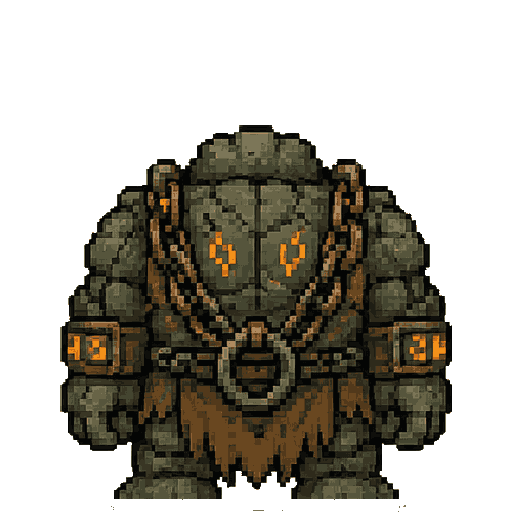
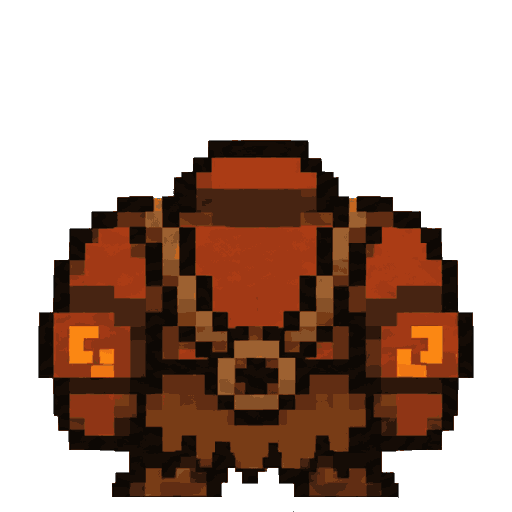
Give the Quarrymaster his own sprites, and a rock that throws a switch
ART. Replaces the stone goblin placeholder with the chained rock taskmaster:
three facings plus an arms-raised summon pose, right profile mirrored for left.
scripts/prep-quarrymaster-sprites.js slices the labelled contact sheet, keys the
paper, drops the baked shadow, de-halos the smoothed edges and plants every pose
on a common baseline at one shared scale. Palette-quantised to 64 colours, which
took each pose from ~300KB to ~20KB.

Sized against the hero rather than by eye. Sprites draw `contain`, so what matters
is canvas FILL: the hero's art fills 93% of its canvas at scale 1.0, while the
Quarrymaster's standing pose fills only 73% (his sheet is scaled to fit the summon
pose's arm span, leaving vertical headroom elsewhere). Hence 1.28, not 1.0 — at 1.0
he rendered shorter than the goblins he summons.

Also sets image-rendering: pixelated on him. He is authored at 512px and drawn at
~73px, and the browser's default smooth filter averaged the blocks into mush —
three art passes at increasing block size all arrived looking identical because the
downscale was throwing the difference away. The terrain already did this, so the
scene was half-filtered.

BEHAVIOUR. He throws his arms up on the turn he calls a wave, and stands still
while doing it — he used to pace on the same turn, and since the pose is only up
for one turn that step was most of what the eye caught, so it read as a glitch
rather than an action. His pods close when he dies, since he is what held them open.
[…]

diff --git a/__tests__/lib/quarrymaster.test.ts b/__tests__/lib/quarrymaster.test.ts
@@ -1,10 +1,11 @@
 import { Enemy, updateEnemies } from "../../lib/enemy";
 import { TileSubtype, Direction } from "../../lib/map";
-import { movePlayer } from "../../lib/map/game-state";
+import { movePlayer, performThrowRock } from "../../lib/map/game-state";
 import type { GameState } from "../../lib/map/game-state";
 import {
   isStandable,
   podExit,
+  quarrymasterIsSummoning,
   quarrymasterPodSpawnNonce,
   quarrymasterUpdate,
   QUARRYMASTER_WAVE_EVERY,
@@ -704,5 +705,131 @@ describe("his death", () => {
       .flat()
       .filter((c) => c.includes(TileSubtype.SPAWN_POD)).length;
     expect(podsAfter).toBe(0);
+  });
+});
+
+describe("the summoning tell", () => {
+  test("he stands still on the turn he calls a wave", () => {
+    // The pose is only up for one turn, so a simultaneous step is most of what the eye
+    // catches — it read as a rendering glitch rather than an action.
+    const { grid, subs } = openRoom(15);
+    const mem: Record<string, unknown> = { pods: [[2, 2], [2, 12]], nextWaveAt: 1 };
+    const ctx = bossCtx({
+      grid,
+      subs,
+      boss: { y: 6, x: 7 },
+      hero: { y: 12, x: 7 },
+      mem,
+      onSpawn: () => true,
+    });
+    // Give him room to pace, so standing still is a real choice and not a blocked move.
+    Object.assign(mem, { roamMinY: 5, roamMaxY: 7, roamMinX: 6, roamMaxX: 8 });
+
+    quarrymasterUpdate(ctx);
+
+    expect(quarrymasterIsSummoning(mem)).toBe(true);
+    expect([ctx.enemy.y, ctx.enemy.x]).toEqual([6, 7]);
+  });
+
+  test("he does pace on a turn he is not calling", () => {
+    const { grid, subs } = openRoom(15);
+    const mem: Record<string, unknown> = {
+      pods: [[2, 2]],
+      nextWaveAt: 9999, // never summons
+      roamMinY: 5,
+      roamMaxY: 7,
+      roamMinX: 6,
+      roamMaxX: 8,
+    };
+    const ctx = bossCtx({
+      grid,
+      subs,
+      boss: { y: 6, x: 7 },
+      hero: { y: 12, x: 7 },
+      mem,
+      onSpawn: () => true,
+    });
+
+    // rng is fixed at 0.5 in bossCtx, so the shuffle is deterministic and he does move.
+    quarrymasterUpdate(ctx);
+
+    expect(quarrymasterIsSummoning(mem)).toBe(false);
+    expect([ctx.enemy.y, ctx.enemy.x]).not.toEqual([6, 7]);
+  });
+});
+
+describe("throwing a rock at a switch", () => {
+  /** Hero at [1,1] facing right, a plate at [1,x], a spike bed the plate retracts. */
+  function rockAtPlate(plateX: number) {
+    const { grid, subs } = openRoom(9);
+    subs[1][1].push(TileSubtype.PLAYER);
+    subs[1][plateX].push(TileSubtype.PRESSURE_PLATE);
+    subs[3][3].push(TileSubtype.SPIKES);
+    return baseState({ tiles: grid, subtypes: subs }, {
+      playerDirection: Direction.RIGHT,
+      rockCount: 3,
+      gateGroups: [{ plate: [1, plateX], gates: [[3, 3]], open: false }],
+    });
+  }
+
+  test("a rock landing on a switch throws it and is spent", () => {
+    const st = rockAtPlate(4);
+    const after = performThrowRock(st);
+
+    expect(after.gateGroups?.[0].open).toBe(true);
+    expect(after.mapData.subtypes[1][4]).toContain(TileSubtype.PRESSURE_PLATE_PRESSED);
+    expect(after.mapData.subtypes[3][3]).toContain(TileSubtype.SPIKE_HOLES);
+    // Spent, not left lying on the switch.
+    expect(after.mapData.subtypes[1][4]).not.toContain(TileSubtype.ROCK);
+    expect(after.rockCount).toBe(2);
+  });
+
+  test("the rock stops AT the switch instead of sailing past it", () => {
+    // The bug this fixes: rocks travel their full range, so a switch short of that range was
+    // flown over and the rock landed behind it — "next to the switch, bumping it up".
+    const st = rockAtPlate(3); // well inside the 4-tile range
+    const after = performThrowRock(st);
+
+    expect(after.gateGroups?.[0].open).toBe(true);
+    // Nothing landed beyond the plate.
+    for (let x = 4; x < 8; x++) {
+      expect(after.mapData.subtypes[1][x]).not.toContain(TileSubtype.ROCK);
+    }
+  });
+
+  test("an already-thrown switch does not eat the rock", () => {
+    const { grid, subs } = openRoom(9);
+    subs[1][1].push(TileSubtype.PLAYER);
+    subs[1][3].push(TileSubtype.PRESSURE_PLATE_PRESSED);
+    const st = baseState({ tiles: grid, subtypes: subs }, {
+      playerDirection: Direction.RIGHT,
+      rockCount: 1,
+    });
+
+    const after = performThrowRock(st);
+
+    // Sails over the spent plate and lands at full range.
+    expect(after.mapData.subtypes[1][3]).not.toContain(TileSubtype.ROCK);
+    expect(after.mapData.subtypes[1][5]).toContain(TileSubtype.ROCK);
+  });
+
+  test("it works across a crack the hero cannot walk over", () => {
+    // The scenario that prompted this: a switch on the far side of a crack field.
+    const { grid, subs } = openRoom(9);
+    subs[1][1].push(TileSubtype.PLAYER);
+    subs[1][2].push(TileSubtype.FAULTY_FLOOR);
+    subs[1][3].push(TileSubtype.OPEN_ABYSS);
+    subs[1][4].push(TileSubtype.PRESSURE_PLATE);
+    subs[5][5].push(TileSubtype.SPIKES);
+    const st = baseState({ tiles: grid, subtypes: subs }, {
+      playerDirection: Direction.RIGHT,
+      rockCount: 1,
+      gateGroups: [{ plate: [1, 4], gates: [[5, 5]], open: false }],
+    });
+
+    const after = performThrowRock(st);
+
+    expect(after.gateGroups?.[0].open).toBe(true);
+    expect(after.mapData.subtypes[5][5]).toContain(TileSubtype.SPIKE_HOLES);
   });
 });

diff --git a/components/Tile.tsx b/components/Tile.tsx
@@ -39,6 +39,22 @@ const COILWYRM_HEAD_RENDER_SCALE = 1.0;
 // it, which matters more than usual here because its STANCE is the fight's only tell and
 // you need to see it against the ground it's standing on.
 const FISHER_RENDER_SCALE = 1.2;
+// The Quarrymaster stands about as tall as the hero — he is broad, not looming.
+//
+// This is NOT 1.0, and the reason is worth writing down. Sprites are drawn `contain` in the
+// tile, so what matters is how much of its CANVAS each sprite's art actually fills, and the
+// bosses differ from everyone else there. The hero's art fills 93% of its canvas height and
+// renders at scale 1.0. The Quarrymaster's standing pose fills only 73%, because his sheet is
+// scaled to fit the SUMMON pose's arm span (525px wide against the standing pose's 459) and
+// that leaves vertical headroom in every other pose. At 1.0 he therefore came out visibly
+// SHORTER than the hero, and shorter than the goblins he summons.
+//
+//   0.93 (hero fill) / 0.73 (his fill) = 1.28
+//
+// Re-derive this if the art changes: the numbers come from the opaque bounding box of
+// hero-front-static.png against quarry-stand-front.png. The summon pose fills 84%, so it
+// lands a little taller than the hero — correct, his arms are over his head.
+const QUARRYMASTER_RENDER_SCALE = 1.28;
 // Ceiling on how high a thrown snake arcs (see smoothStepArcStyle). Tiles are 40px, so
 // this keeps a long throw inside roughly one tile of airspace above the flight path.
 const THROWN_ARC_MAX_LIFT_PX = 46;
@@ -1866,6 +1882,12 @@ export const Tile: React.FC<TileProps> = ({
           const flip = enemyFacing === 'LEFT' ? ' scaleX(-1)' : '';
           return `scale(${FISHER_RENDER_SCALE})${flip}`;
         }
+        // Only a RIGHT profile exists, so he mirrors for left like the Fisher. The summon
+        // pose is drawn front-facing and is symmetrical, so the mirror never touches it.
+        if (enemyKind === 'quarrymaster') {
+          const flip = enemyFacing === 'LEFT' ? ' scaleX(-1)' : '';
+          return `scale(${QUARRYMASTER_RENDER_SCALE})${flip}`;
+        }
         // (pink-goblin never reaches here — it always takes the hover branch)
         return enemyFacing === 'LEFT' ? 'scaleX(-1)' : 'none';
       }
@@ -1978,12 +2000,27 @@ export const Tile: React.FC<TileProps> = ({
               backgroundSize: 'contain',
               backgroundRepeat: 'no-repeat',
               backgroundPosition: 'center',
+              // Nearest-neighbour, or the pixel art is destroyed on the way down. These
+              // sprites are authored at 512px and render around 73px, and the browser's
+              // default smooth filter averages every chunky block into mush — three
+              // successive art passes at increasing block size all arrived on screen looking
+              // identical and equally soft, because the downscale was throwing the difference
+              // away. The terrain already does this (see .spikes, .openAbyss and friends in
+              // Tile.module.css), so without it the scene was half-filtered and half not.
+              //
+              // Scoped to the Quarrymaster rather than every enemy: it visibly changes any
+              // sprite it touches, and widening it is a look-of-the-whole-game call.
+              imageRendering: enemyKind === 'quarrymaster' ? 'pixelated' : undefined,
               zIndex: 10500, // above fog (10000), below wall tops (12000)
               transform: enemyBaseTransform,
               // The Shaper's and the Fisher's up-scale pivots at their feet so they grow
               // into the tile above; every other enemy keeps the default center origin.
               transformOrigin:
-                enemyKind === 'shaper' || enemyKind === 'fisher' ? '50% 100%' : undefined,
+                enemyKind === 'shaper' ||
+                enemyKind === 'fisher' ||
+                enemyKind === 'quarrymaster'
+                  ? '50% 100%'
+                  : undefined,
               // Darken non-torch-carrying enemies in cave/underground environments
               filter: (!environmentConfig.daylight && enemyKind !== 'fire-goblin')
                 ? 'brightness(var(--enemy-dim, 0.80))'

diff --git a/lib/map/game-state.ts b/lib/map/game-state.ts
@@ -894,6 +894,33 @@ export function performThrowRockCore(gameState: GameState): GameState {
         };
       }
     }
+    // A rock landing on an unthrown floor switch HOLDS IT DOWN and is spent doing so. The
+    // throw stops here rather than flying on, which is the whole point: rocks otherwise
+    // travel their full range, so a switch three tiles away would be sailed straight over
+    // and land behind it. Stopping on the plate is what turns "a switch across a crack" from
+    // scenery into a puzzle you can actually solve.
+    //
+    // Only an UNTHROWN plate stops a rock — a pressed one is spent, so the rock sails over it
+    // like any other floor decal.
+    {
+      const plateSubs = newMapData.subtypes[ty][tx] || [];
+      if (plateSubs.includes(TileSubtype.PRESSURE_PLATE)) {
+        const wiring: { gateGroups?: GateGroup[] } = {
+          gateGroups: preTickState.gateGroups,
+        };
+        pressPlate(wiring, newMapData, ty, tx);
+        return {
+          ...preTickState,
+          mapData: newMapData,
+          gateGroups: wiring.gateGroups,
+          rockCount: count - 1,
+          stats: {
+            ...preTickState.stats,
+            rocksThrown: (preTickState.stats.rocksThrown ?? 0) + 1,
+          },
+        };
+      }
+    }
     // Floor tile: check for pot collision
     const subs = newMapData.subtypes[ty][tx] || [];
     if (subs.includes(TileSubtype.POT)) {
@@ -3220,8 +3247,11 @@ function resolveBossDefeat(after: GameState, before: BossSnapshot): void {
 }
 
 /**
- * Throw the pressure plate the hero just stepped onto: latch the switch and retract every
- * spike bed wired to it.
+ * Throw a pressure plate: latch the switch and retract every spike bed wired to it.
+ *
+ * Called both when the hero steps onto one and when a thrown rock lands on one — a rock has
+ * weight, so it holds the plate down just as a boot does, and that is what lets a switch on
+ * the far side of a crack be solved rather than merely looked at.
  *
  * The spikes sink into the ground and leave SPIKE_HOLES — bare sockets that are walkable and
  * purely cosmetic. Keeping a mark rather than reverting to clean floor means a thrown switch
@@ -3234,7 +3264,7 @@ function resolveBossDefeat(after: GameState, before: BossSnapshot): void {
  * Mutates in place; safe to call on a tile with no group wired to it (no-op).
  */
 function pressPlate(
-  state: GameState,
+  state: { gateGroups?: GateGroup[] },
   mapData: MapData,
   y: number,
   x: number

diff --git a/lib/bosses/quarrymaster.ts b/lib/bosses/quarrymaster.ts
@@ -265,8 +265,8 @@ export function quarrymasterUpdate(ctx: BehaviorContext): number {
     mem.nextWaveAt = turn + QUARRYMASTER_WAVE_EVERY;
   }
 
-  // FIGHT or pace. He swings the moment the hero is orthogonally adjacent — through an
-  // open gate mouth as readily as inside the chamber.
+  // FIGHT, or pace, or plant. He swings the moment the hero is orthogonally adjacent —
+  // through an open gate mouth as readily as inside the chamber.
   if (collared) {
     const dy = hero.y - boss.y;
     const dx = hero.x - boss.x;
@@ -274,7 +274,11 @@ export function quarrymasterUpdate(ctx: BehaviorContext): number {
     else ctx.enemy.facing = dy > 0 ? "DOWN" : "UP";
     return ctx.enemy.attack;
   }
-  pace(ctx, mem, rng);
+  // He does NOT pace on a turn he called a wave: both arms are over his head. Sliding a tile
+  // mid-summon made the tell unreadable (the pose is only up for one turn, so a simultaneous
+  // step is most of what the eye catches) and looked like a rendering glitch rather than an
+  // action.
+  if (!quarrymasterIsSummoning(mem)) pace(ctx, mem, rng);
   return 0;
 }
 
